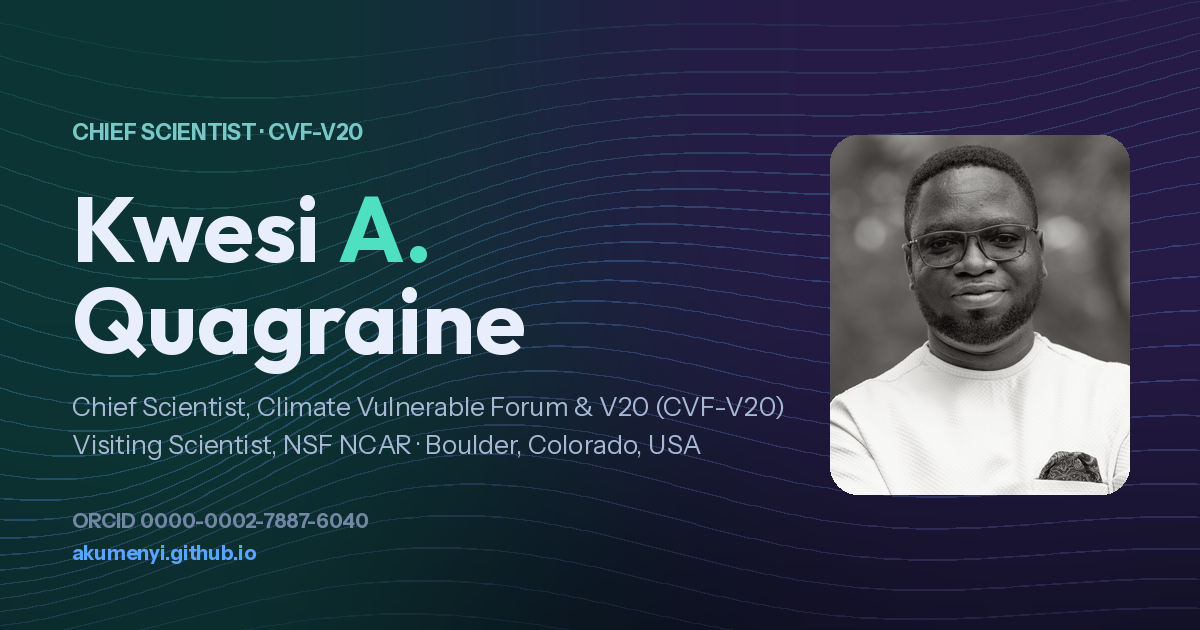
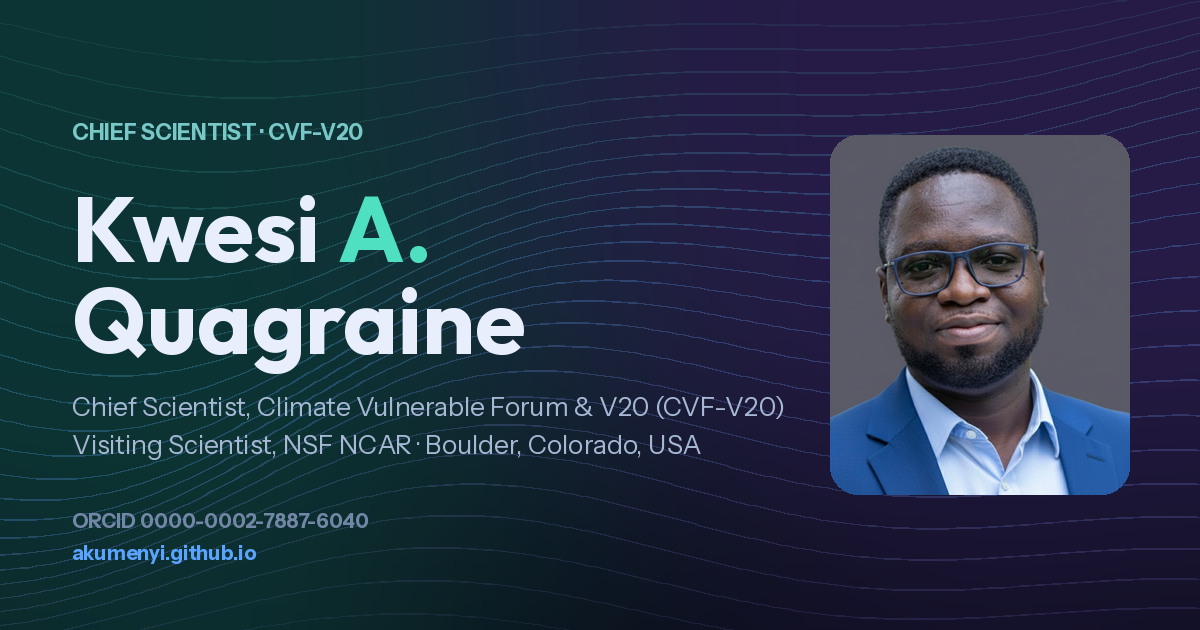
Set the name in Calibri Bold
"Kwesi A. Quagraine" now uses Calibri where it is installed -- Windows, and
Macs with Office -- in the header brand, the hero and the footer, at weight
700.

Calibri is proprietary to Microsoft and cannot be self-hosted, so visitors
without it are served Carlito, its metric-compatible OFL-licensed twin, added
to the existing Google Fonts request rather than a second one. The stack lists
Calibri first, so anyone who has it gets the genuine face.

Calibri is softer and narrower than the Space Grotesk it replaces here, so the
hero's tracking is relaxed from -.045em to -.025em and its leading opened from
.93 to 1, which the tighter letterforms need.

Verified with Carlito installed locally so the render is truthful rather than
falling back to a system face: the name measures 482px against 563px for the
generic fallback, confirming the intended family is the one being used.

Changed region(s): [[0.6783, 0.2111, 0.9558, 0.7841], [0.925, 0.2413, 0.9558, 0.3016]]

diff --git a/assets/css/main.css b/assets/css/main.css
@@ -32,6 +32,11 @@
 
   --font-body: "Inter", -apple-system, BlinkMacSystemFont, "Segoe UI", Roboto, Helvetica, Arial, sans-serif;
   --font-display: "Space Grotesk", "Inter", var(--font-body);
+  /* The name itself is set in Calibri. Calibri is a proprietary Microsoft face
+     that cannot be self-hosted, so it is used where it is installed --
+     Windows, and Macs with Office -- and Carlito, its metric-compatible
+     OFL-licensed twin, is served to everyone else. */
+  --font-name: Calibri, Carlito, "Segoe UI", system-ui, -apple-system, sans-serif;
   --wrap: 1160px;
 
   color-scheme: dark;
@@ -183,7 +188,7 @@ hr { border: 0; border-top: 1px solid var(--line); margin: 2.5rem 0; }
   color: var(--teal);
 }
 .brand-mark svg { width: 1.5rem; height: 1.5rem; }
-.brand-text { font-family: var(--font-display); font-weight: 600; font-size: 1.02rem; line-height: 1.2; letter-spacing: -.01em; }
+.brand-text { font-family: var(--font-name); font-weight: 700; font-size: 1.08rem; line-height: 1.2; letter-spacing: 0; }
 .brand-text em { font-style: normal; color: var(--teal); }
 .brand-text small { display: block; font-family: var(--font-body); font-weight: 500; font-size: .72rem; letter-spacing: .1em; text-transform: uppercase; color: var(--text-mute); }
 
@@ -249,8 +254,11 @@ hr { border: 0; border-top: 1px solid var(--line); margin: 2.5rem 0; }
 }
 
 .hero-name {
+  font-family: var(--font-name);
   font-size: clamp(3.1rem, 9.5vw, 6.1rem);
-  line-height: .93; letter-spacing: -.045em; font-weight: 700;
+  /* Calibri is softer and narrower than the display face it replaces, so it
+     needs less negative tracking and a little more leading to sit right. */
+  line-height: 1; letter-spacing: -.025em; font-weight: 700;
   margin: 0 0 1.1rem;
 }
 .hero-name em {
@@ -462,7 +470,7 @@ a.chip:hover { color: var(--text); border-color: var(--accent); text-decoration:
 
 .site-footer { border-top: 1px solid var(--line-soft); background: var(--bg-alt); padding: 3.5rem 0 2rem; margin-top: 0; }
 .footer-grid { display: grid; gap: 2rem; grid-template-columns: 1.5fr 1fr 1fr 1.6fr; }
-.footer-name { font-family: var(--font-display); font-weight: 600; font-size: 1.1rem; margin-bottom: .5rem; }
+.footer-name { font-family: var(--font-name); font-weight: 700; font-size: 1.15rem; margin-bottom: .5rem; }
 .footer-name em { font-style: normal; color: var(--teal); }
 .footer-role { font-size: .88rem; color: var(--text-mute); line-height: 1.7; }
 .footer-mail { font-size: .9rem; font-weight: 500; }

diff --git a/_includes/head.html b/_includes/head.html
@@ -30,7 +30,7 @@
 
 <link rel="preconnect" href="https://fonts.googleapis.com">
 <link rel="preconnect" href="https://fonts.gstatic.com" crossorigin>
-<link rel="stylesheet" href="https://fonts.googleapis.com/css2?family=Inter:wght@400;500;600;700&family=Space+Grotesk:wght@500;600;700&display=swap">
+<link rel="stylesheet" href="https://fonts.googleapis.com/css2?family=Carlito:wght@700&family=Inter:wght@400;500;600;700&family=Space+Grotesk:wght@500;600;700&display=swap">
 <link rel="stylesheet" href="{{ '/assets/css/main.css' | relative_url }}">
 
 <!-- Set the colour scheme before first paint so the page never flashes. -->

diff --git a/scripts/make_social_card.py b/scripts/make_social_card.py
@@ -80,9 +80,14 @@ def isobar_layer(size: tuple[int, int], lines: int = 26, alpha_scale: float = 0.
 
 def main() -> int:
     profile = (yaml.safe_load((ROOT / "_config.yml").read_text(encoding="utf-8")) or {}).get("profile", {})
-    portrait_path = OUT / "kwesi-quagraine.jpg"
+    # Follow whatever `profile.photo` points at, rather than a fixed filename.
+    # The path was hardcoded, so changing the portrait in _config.yml left the
+    # card advertising the previous photo.
+    photo = (profile.get("photo") or "/assets/img/kwesi-quagraine.jpg").lstrip("/")
+    portrait_path = ROOT / photo
     if not portrait_path.exists():
-        raise SystemExit(f"missing {portrait_path}")
+        raise SystemExit(f"missing {portrait_path} (profile.photo in _config.yml)")
+    print(f"portrait: {portrait_path.relative_to(ROOT)}")
 
     W, H = 1200, 630
     card = Image.new("RGB", (W, H), INK)
@@ -97,7 +102,14 @@ def main() -> int:
     card.paste(lines, (0, 0), lines)
 
     inset_w, inset_h = 300, 360
-    face = Image.open(portrait_path).convert("RGB").resize((inset_w, inset_h), Image.LANCZOS)
+    # Cover-fit rather than stretch: the two portraits used so far have had
+    # different aspect ratios, and resize() alone would distort the face.
+    src = Image.open(portrait_path).convert("RGB")
+    scale = max(inset_w / src.width, inset_h / src.height)
+    scaled = src.resize((max(1, round(src.width * scale)), max(1, round(src.height * scale))), Image.LANCZOS)
+    left = (scaled.width - inset_w) // 2
+    top = int((scaled.height - inset_h) * 0.12)          # bias upward, towards the face
+    face = scaled.crop((left, top, left + inset_w, top + inset_h))
     mask = Image.new("L", (inset_w, inset_h), 0)
     ImageDraw.Draw(mask).rounded_rectangle([0, 0, inset_w - 1, inset_h - 1], radius=28, fill=255)
     card.paste(face, (W - inset_w - 70, (H - inset_h) // 2), mask)
